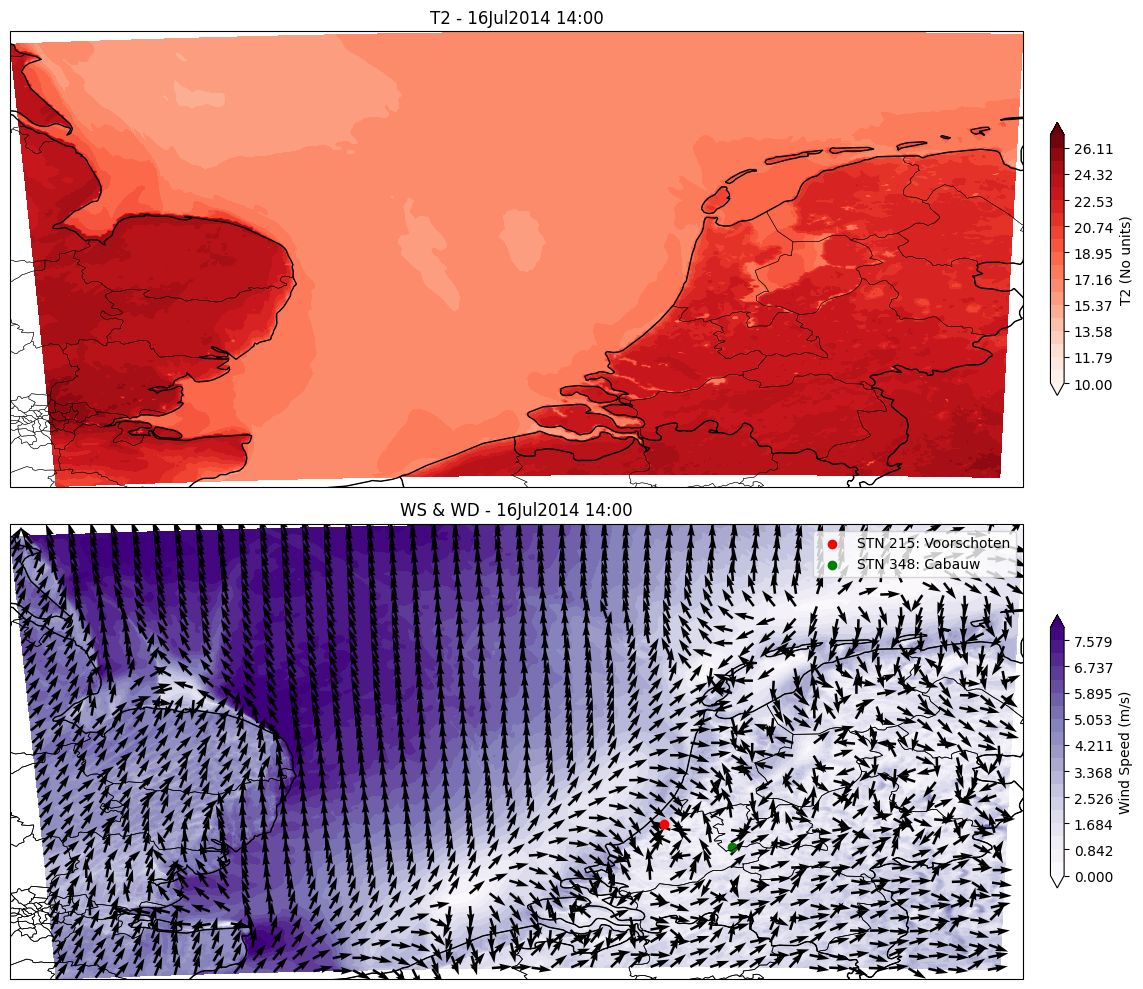
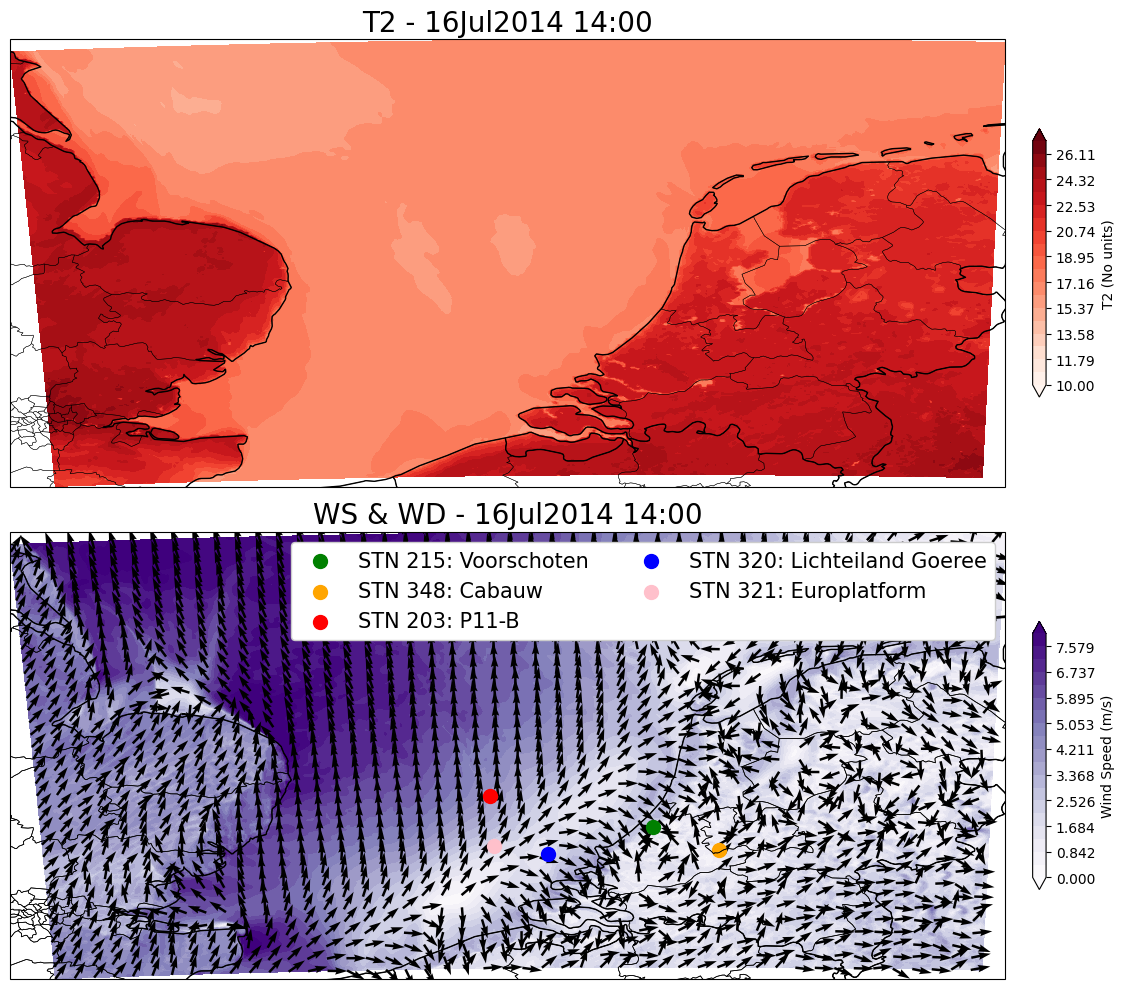
Actualización automática del proyecto y environment.yml

diff --git a/scripts/calculations/select_data_KNMI_single_day.py b/scripts/calculations/select_data_KNMI_single_day.py
@@ -37,14 +37,18 @@ var_name_WRF = var_name
 
 if var_name == 'T':
     var_name_KNMI = 'T'  # Temperatura en 0.1 ºC
+    var_units = 'ºC'
 elif var_name == 'WS':
     var_name_KNMI = 'FF'  # Velocidad del viento
+    var_units = 'm/s'
 elif var_name == 'Q':  # Humedad específica
     var_name_KNMI = 'U'  # Se utilizará para calcular la humedad específica
+    var_units = 'g/kg'
 elif var_name == 'WD':
     var_name_KNMI = 'DD'  # Se utilizará para calcular la humedad específica
+    var_units = 'Where the wind comes from'
 else:
-    raise ValueError("La variable elegida no es válida. Elige entre 'T', 'WS', o 'q'.")
+    raise ValueError("La variable elegida no es válida. Elige entre 'T', 'WS', 'WD', o 'q'.")
 
 ####### INICIO OBTENCION DATOS OBSERVACIONALES
 ### LEO LOS DATOS DE KNMI Y LOS GUARDO EN LA VARIABLE data_KNMI
@@ -110,7 +114,7 @@ for cod_STN in STN_values_land:
 
 print(df_resultado_land)
 ####### FIN OBTENCION DATOS OBSERVACIONALES
-breakpoint()
+
 ### LEO LOS VALORES DE LOS WRFOUT (SIMULACIONES)
 ruta = ruta_actual / 'data' / 'Models' / 'WRF' / 'PrelimSim_I'
 file_names_WRF = sorted(filename for filename in os.listdir(ruta) if filename.startswith("wrfout_d02_2014-07-16_"))
@@ -133,6 +137,7 @@ for file_name_WRF in file_names_WRF:
 
     # Buscar la fila correspondiente en df_resultado_land
     if time_str in pd.to_datetime(df_resultado_land.index):
+        print('#####################################################')
         print(f'#####{time_str} ...')
         # SI LA VARIABLE ES WD, GENERO DOS DF DE DATOS PARA U Y V PARA HACER PLOTS 
         if (var_name_WRF == 'WD') and (time_str == pd.to_datetime(df_resultado_land.index)[0]):
@@ -152,7 +157,7 @@ for file_name_WRF in file_names_WRF:
 
             # Comprobar si la estación está dentro del rango del dominio de WRF
             if (lat_min <= stn_lat <= lat_max) and (lon_min <= stn_lon <= lon_max):
-                print(f'Searching for nearest WRF grid point to station {STN_value_land}...')
+                print(f'--Searching for nearest WRF grid point to station {STN_value_land}...')
                 if (var_name_WRF == 'WS') or (var_name_WRF == 'WD'):  # Velocidad del viento
                     u_value_WRF = float(extract_point_data(f'{ruta}/wrfout_d02_{time_str.strftime("%Y-%m-%d_%H")}.nc', 'U10', coords_KNMI_land_and_sea.loc[STN_value_land, 'LAT(north)'], coords_KNMI_land_and_sea.loc[STN_value_land, 'LON(east)'], time_idx=None))
                     v_value_WRF = float(extract_point_data(f'{ruta}/wrfout_d02_{time_str.strftime("%Y-%m-%d_%H")}.nc', 'V10', coords_KNMI_land_and_sea.loc[STN_value_land, 'LAT(north)'], coords_KNMI_land_and_sea.loc[STN_value_land, 'LON(east)'], time_idx=None))
@@ -162,12 +167,12 @@ for file_name_WRF in file_names_WRF:
                         data_WRF_U.loc[time_str.strftime('%Y-%m-%d %H:%M:%S'), STN_value_land] = u_value_WRF
                         data_WRF_V.loc[time_str.strftime('%Y-%m-%d %H:%M:%S'), STN_value_land] = v_value_WRF
                 elif var_name_WRF == 'T':  # Temperatura
-                    valor_extraido = (int(extract_point_data(f'{ruta}/wrfout_d02_{time_str.strftime("%Y-%m-%d_%H")}.nc', 'T2', coords_KNMI_land_and_sea.loc[STN_value_land, 'LAT(north)'], coords_KNMI_land_and_sea.loc[STN_value_land, 'LON(east)'], time_idx=None))-273)
+                    valor_extraido = (float(extract_point_data(f'{ruta}/wrfout_d02_{time_str.strftime("%Y-%m-%d_%H")}.nc', 'T2', coords_KNMI_land_and_sea.loc[STN_value_land, 'LAT(north)'], coords_KNMI_land_and_sea.loc[STN_value_land, 'LON(east)'], time_idx=None))-273)
                 elif var_name_WRF == 'Q':  # Humedad específica
                     # Obtener temperatura, punto de rocío y presión para calcular humedad específica
-                    t_value_WRF = (int(extract_point_data(f'{ruta}/wrfout_d02_{time_str.strftime("%Y-%m-%d_%H")}.nc', 'T2', coords_KNMI_land_and_sea.loc[STN_value_land, 'LAT(north)'], coords_KNMI_land_and_sea.loc[STN_value_land, 'LON(east)'], time_idx=None))-273)
-                    p_value_WRF = int(extract_point_data(f'{ruta}/wrfout_d02_{time_str.strftime("%Y-%m-%d_%H")}.nc', 'PSFC', coords_KNMI_land_and_sea.loc[STN_value_land, 'LAT(north)'], coords_KNMI_land_and_sea.loc[STN_value_land, 'LON(east)'], time_idx=None))/100
-                    td_value_WRF = int(extract_point_data(f'{ruta}/wrfout_d02_{time_str.strftime("%Y-%m-%d_%H")}.nc', 'td2', coords_KNMI_land_and_sea.loc[STN_value_land, 'LAT(north)'], coords_KNMI_land_and_sea.loc[STN_value_land, 'LON(east)'], time_idx=None))
+                    t_value_WRF = (float(extract_point_data(f'{ruta}/wrfout_d02_{time_str.strftime("%Y-%m-%d_%H")}.nc', 'T2', coords_KNMI_land_and_sea.loc[STN_value_land, 'LAT(north)'], coords_KNMI_land_and_sea.loc[STN_value_land, 'LON(east)'], time_idx=None))-273)
+                    p_value_WRF = float(extract_point_data(f'{ruta}/wrfout_d02_{time_str.strftime("%Y-%m-%d_%H")}.nc', 'PSFC', coords_KNMI_land_and_sea.loc[STN_value_land, 'LAT(north)'], coords_KNMI_land_and_sea.loc[STN_value_land, 'LON(east)'], time_idx=None))/100
+                    td_value_WRF = float(extract_point_data(f'{ruta}/wrfout_d02_{time_str.strftime("%Y-%m-%d_%H")}.nc', 'td2', coords_KNMI_land_and_sea.loc[STN_value_land, 'LAT(north)'], coords_KNMI_land_and_sea.loc[STN_value_land, 'LON(east)'], time_idx=None))
 
                     e_vapor = 6.112* math.exp(17.67*td_value_WRF/(td_value_WRF+243.5))
 
@@ -180,7 +185,7 @@ for file_name_WRF in file_names_WRF:
             else:
                 if (time_str == pd.to_datetime(df_resultado_land.index)[0]):
                     print(f"La estación {STN_value_land} con latitud {stn_lat} y longitud {stn_lon} está fuera del dominio WRF.")
-
+        print('#####################################################')
                 
 
 def calcular_estadisticos(df_modelo, df_obs):
@@ -235,45 +240,87 @@ print(estadisticos)
 pd.DataFrame([estadisticos.mean()]).round(2).to_csv(f'{ruta_actual}/misc/WRF_validation/Estadisticos_{var_name}_WRF_vs_KNMIObs.csv', index = False)
 breakpoint()
 
+def rellenar_huecos(df, metodo='interpolacion'):
+    """
+    Rellena los huecos de un DataFrame con varios métodos posibles.
+    
+    df: DataFrame o Serie con huecos (NaN).
+    metodo: Método para rellenar los huecos. 
+            Puede ser 'interpolacion', 'ffill' (propagación hacia adelante), 
+            'bfill' (propagación hacia atrás), o un valor constante.
+    
+    Devuelve: DataFrame o Serie con huecos rellenados.
+    """
+    # Asegurarse de que la columna tiene tipo numérico
+    df = pd.to_numeric(df, errors='coerce')
+    
+    if metodo == 'interpolacion':
+        # Interpolación con dirección both para rellenar huecos al principio y al final
+        return df.interpolate(method='linear', limit_direction='both')
+    elif metodo == 'ffill':
+        return df.fillna(method='ffill')
+    elif metodo == 'bfill':
+        return df.fillna(method='bfill')
+    else:
+        # Asume que el valor del método es un número y rellena los huecos con ese valor
+        return df.fillna(metodo)
+breakpoint()
+
+sea_station_code = 320
+land_station_code = 215
+df_resultado_land.index = pd.to_datetime(df_resultado_land.index)
+
+df_rellenado_sea_station = rellenar_huecos(df_resultado_land[sea_station_code], metodo='interpolacion')
+df_rellenado_land_station = rellenar_huecos(df_resultado_land[land_station_code], metodo='interpolacion')
 
 
 ### AHORA VAMOS A PUNTAR SERIES TEMPORALES DE WD:
 if var_name == 'WD':
     data_WRF_WD = pd.DataFrame((np.degrees(-np.arctan2(data_WRF_U.to_numpy(dtype=float), -data_WRF_V.to_numpy(dtype=float))) + 360) % 360, index=data_WRF_U.index, columns=data_WRF_U.columns)
-    data_WRF_WD.index = pd.to_datetime(data_WRF_WD.index)
-    df_resultado_land.index = pd.to_datetime(df_resultado_land.index)
-    # Crear una figura y eje
-    plt.figure(figsize=(10, 6))
+else:
+    data_WRF_plot = df_resultado_WRF_land.copy()
+data_WRF_plot.index = pd.to_datetime(data_WRF_plot.index)
+df_resultado_land.index = pd.to_datetime(df_resultado_land.index)
+# Crear una figura y eje
+plt.figure(figsize=(10, 6))
 
-    # Graficamos ambas columnas
-    plt.plot(data_WRF_WD[215].index, data_WRF_WD[215], label='STN 215 (WRF nearest)', linestyle = 'dashed', color = 'green')
-    plt.plot(data_WRF_WD[348].index, data_WRF_WD[348], label='STN 348 (WRF nearest)', linestyle = 'dashed', color = 'orange')
+# Graficamos ambas columnas
+plt.plot(df_rellenado_sea_station.index, df_rellenado_sea_station, color = 'red')
+plt.plot(df_rellenado_land_station.index, df_rellenado_land_station, color = 'red', label = 'Filled missing data')
 
-    plt.plot(df_resultado_land[215].index, df_resultado_land[215], label='STN 215 (KNMI)', color = 'green')
-    plt.plot(df_resultado_land[348].index, df_resultado_land[348], label='STN 348 (KNMI)', color = 'orange')
+plt.plot(df_resultado_land[sea_station_code].index, df_resultado_land[sea_station_code], label=f'STN {sea_station_code} (KNMI)', color = 'blue')
+plt.plot(df_resultado_land[land_station_code].index, df_resultado_land[land_station_code], label=f'STN {land_station_code} (KNMI)', color = 'green')
+
+plt.plot(data_WRF_plot[sea_station_code].index, data_WRF_plot[sea_station_code], label=f'STN {sea_station_code} (WRF nearest)', linestyle = 'dashed', color = 'blue')
+plt.plot(data_WRF_plot[land_station_code].index, data_WRF_plot[land_station_code], label=f'STN {land_station_code} (WRF nearest)', linestyle = 'dashed', color = 'green')
+
+# Añadimos etiquetas y título
+plt.xlabel('Hour (UTC)')
+if var_name == 'WD':
+    plt.yticks([0, 90, 180, 270, 360], ['N', 'E', 'S', 'W', 'N'])
+
+plt.ylabel(f'{var_name} ({var_units})')
+plt.title(f'{var_name} for STN {sea_station_code} y STN {land_station_code}', fontsize = 20)
+plt.legend(loc='upper left', fontsize = 12)
+
+# Rotamos las etiquetas del eje x para mejor legibilidad
+# Formatear el eje de tiempo como "DDMon HHh"
+ax = plt.gca()  # Obtener el eje actual
+time_fmt = mdates.DateFormatter('%H')
+
+# Set the locator and formatter for the x-axis ticks
+# Major ticks por hora
+ax.xaxis.set_major_locator(mdates.HourLocator(interval=1))  # Cada 1 hora
+
+# Minor ticks cada media hora
+ax.xaxis.set_minor_locator(mdates.MinuteLocator(interval=30))  # Cada 30 minutos
+ax.xaxis.set_major_formatter(time_fmt)
+
+# Ajuste automático del formato de fecha en el eje x
+ax.grid(True)
 
 
-    # Añadimos etiquetas y título
-    plt.xlabel('Fecha')
-    plt.ylabel('Dirección del Viento (°)')
-    plt.title('Dirección del Viento para STN 215 y STN 348')
-    plt.legend()
 
-    # Rotamos las etiquetas del eje x para mejor legibilidad
-    # Formatear el eje de tiempo como "DDMon HHh"
-    ax = plt.gca()  # Obtener el eje actual
-    time_fmt = mdates.DateFormatter('%H')
-
-    # Set the locator and formatter for the x-axis ticks
-    ax.xaxis.set_major_locator(mdates.HourLocator(byhour=[0, 6, 12, 18, 24]))
-    ax.xaxis.set_minor_locator(mdates.HourLocator(byhour=[0, 3, 6, 9, 12, 15, 18, 21,24]))
-    ax.xaxis.set_major_formatter(time_fmt)
-
-    # Ajuste automático del formato de fecha en el eje x
-    ax.grid(True)
-
-    plt.yticks([0, 90, 180, 270], ['S', 'E', 'N', 'W'])
-    
-    # Mostramos la gráfica
-    plt.tight_layout()
-    plt.savefig(f'{ruta_actual}/figs/prueba_WD.png')
+# Mostramos la gráfica
+plt.tight_layout()
+plt.savefig(f'{ruta_actual}/figs/ts/Obs-vs-Model/{var_name}_Land-vs-Sea_KNMI-vs-WRF.png')

diff --git a/scripts/plots/plot_wrfout_data.py b/scripts/plots/plot_wrfout_data.py
@@ -49,7 +49,7 @@ def plot_wrf_variable(variable, lats, lons, fig, subplot_idx, cbar_lims):
     cbar = fig.colorbar(contour, ax=ax, orientation='vertical', label=f"{variable.name} ({variable.attrs.get('units', 'No units')})", shrink=0.6, pad=0.02)
     
     # Título del plot con el nombre de la variable y el tiempo formateado
-    ax.set_title(f"{variable.name} - {pd.to_datetime(variable.Time.values).strftime('%d%b%Y %H:%M')}")
+    ax.set_title(f"{variable.name} - {pd.to_datetime(variable.Time.values).strftime('%d%b%Y %H:%M')}", fontsize = 20)
 
 
 def calculate_wind_speed_direction(u, v):
@@ -68,7 +68,7 @@ def calculate_wind_speed_direction(u, v):
     ws = np.sqrt(u**2 + v**2)
     
     # Dirección del viento en grados
-    wd = (270 - (np.arctan2(v, u) * 180 / np.pi)) % 360
+    wd = (270 - (np.arctan2(v, u) * 180 / np.pi)) % 360 #CUIDADO CON ESTA WD, NO SE SI ESTA BIEN...
     
     return ws, wd
 
@@ -110,7 +110,7 @@ def plot_wind(variable_u, variable_v, lats, lons, fig, subplot_idx, cbar_lims):
     ax.quiver(to_np(lons[::10, ::10]), to_np(lats[::10, ::10]), u_np[::10, ::10]/np.sqrt(u_np[::10, ::10]**2 + v_np[::10, ::10]**2), v_np[::10, ::10]/np.sqrt(u_np[::10, ::10]**2 + v_np[::10, ::10]**2), transform=ccrs.PlateCarree(), scale=50, width=0.0025)
     
     # Título
-    ax.set_title(f"WS & WD - {pd.to_datetime(variable_u.Time.values).strftime('%d%b%Y %H:%M')}")
+    ax.set_title(f"WS & WD - {pd.to_datetime(variable_u.Time.values).strftime('%d%b%Y %H:%M')}", fontsize = 20)
 
 
 def plot_terrain_with_hillshade(hgt, fig, subplot_idx):
@@ -156,7 +156,7 @@ def plot_terrain_with_hillshade(hgt, fig, subplot_idx):
     cbar.set_label("Altitude (m)")
 
     # Añadir el título
-    ax.set_title("Altura del Terreno con Hillshade", fontsize=16)
+    ax.set_title("Altura del Terreno con Hillshade", fontsize=20)
 
 
 
@@ -201,15 +201,18 @@ if __name__ == "__main__":
     #     # Mostrar la figura completa
 
         ax1,ax2 = fig.axes[0], fig.axes[2]  # Acceder al primer eje creado
-        ax2.scatter(4.437, 52.141, marker='o', color='red', transform=ccrs.PlateCarree(), label = 'STN 215: Voorschoten')
-        ax2.scatter(4.926, 51.97, marker='o', color='green', transform=ccrs.PlateCarree(), label = 'STN 348: Cabauw')
-        ax2.legend()
-
+        ax2.scatter(4.437, 52.141, marker='o', s=100, color='green', transform=ccrs.PlateCarree(), label = 'STN 215: Voorschoten')
+        ax2.scatter(4.926, 51.97, marker='o', s=100, color='orange', transform=ccrs.PlateCarree(), label = 'STN 348: Cabauw')
+        ax2.scatter(3.237, 52.367, marker='o', s=100, color='red', transform=ccrs.PlateCarree(), label = 'STN 203: P11-B')
+        ax2.scatter(3.667, 51.939, marker='o', s=100, color='blue', transform=ccrs.PlateCarree(), label = 'STN 320: Lichteiland Goeree')
+        ax2.scatter(3.27, 52, marker='o', s=100, color='pink', transform=ccrs.PlateCarree(), label = 'STN 321: Europlatform')
+        legend = ax2.legend(frameon=True, fontsize = 15, ncol = 2)
+        legend.get_frame().set_alpha(1)
         plt.tight_layout()
 
         # Guardamos la figura en un archivo (si es necesario)
         fig.savefig(Path.cwd() / 'figs' / 'maps' / 'T-wind_subplot' / '2014-07-16'/ f'T-wind_subplot_{file_name[11:-3]}.png', bbox_inches='tight')
-
+        plt.close()
         #CREAR UN GIF DE TODAS LAS IMAGENES GENERADAS
         # Abrimos las imágenes y las convertimos a formato de PIL
         
